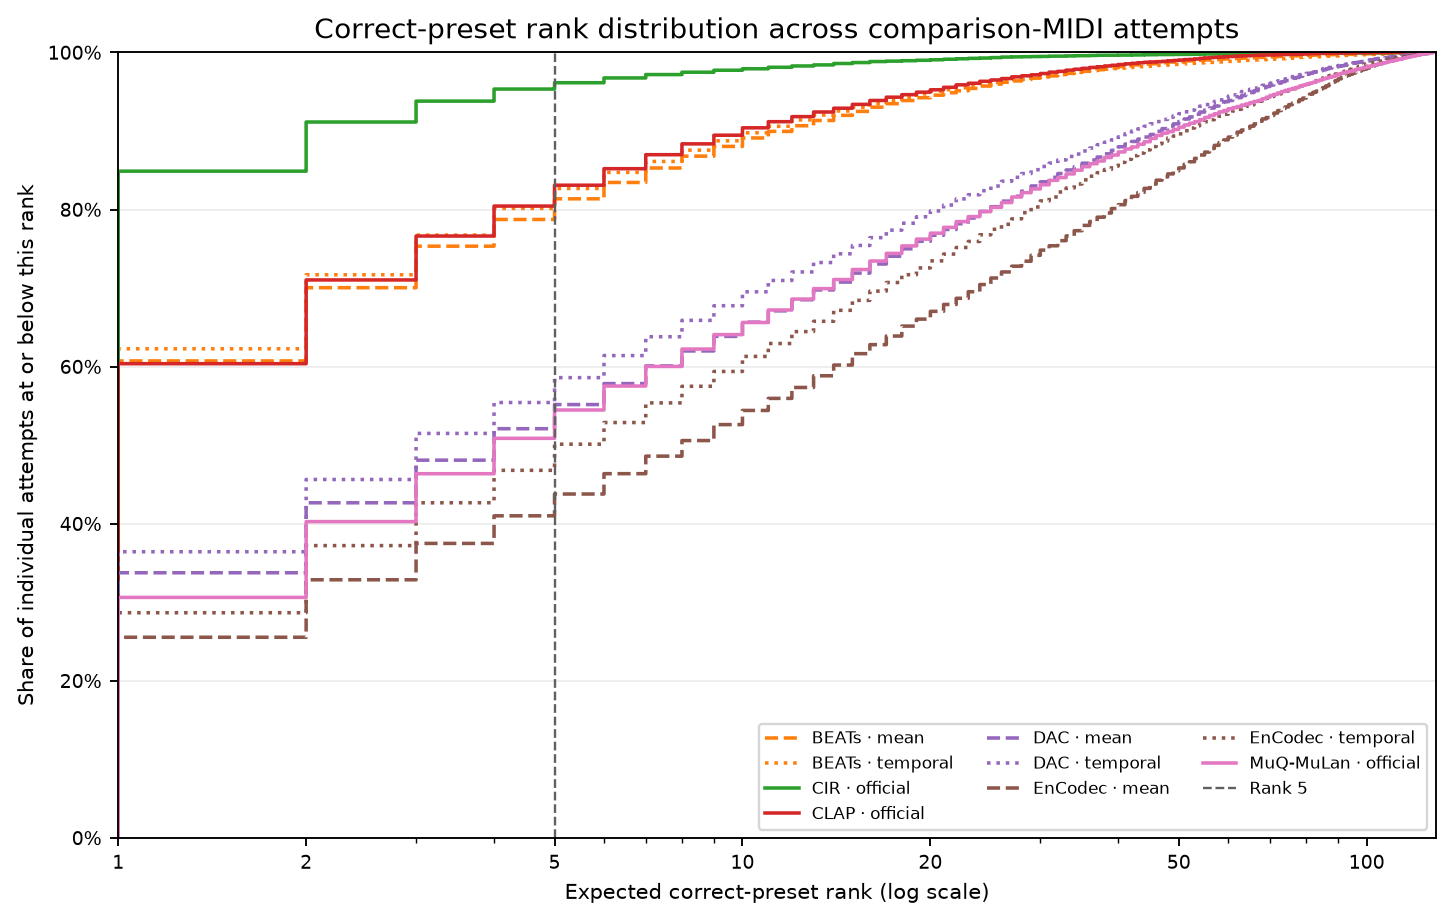
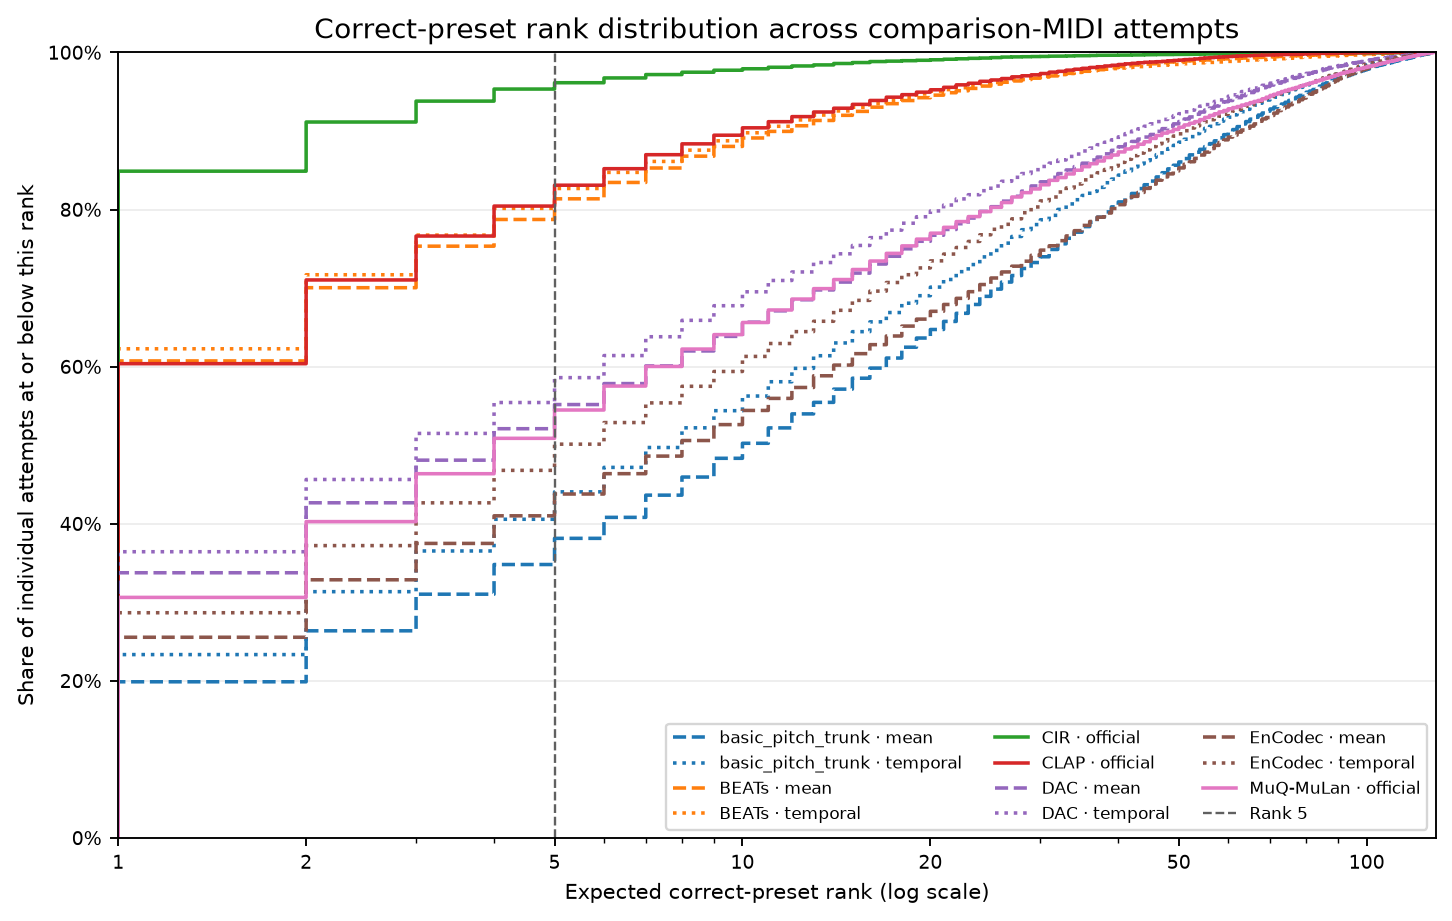
Extend Issue 155 results with Basic Pitch

diff --git a/research/modelling/frozen_encoder_retrieval/frozen_retrieval/reporting.py b/research/modelling/frozen_encoder_retrieval/frozen_retrieval/reporting.py
@@ -546,8 +546,18 @@ def _issue155_followup_lines(results: dict, shortlist: dict | None) -> list[str]
     gain = results.get("gain_sensitivity", {})
     if gain.get("arms"):
         sample = gain.get("sample", {})
-        encoder_count = results.get("input_dataset", {}).get("encoder_families", len(MODEL_REGISTRY))
-        lines.extend(["", f"**C — Gain-reduced warning sample:** a deterministic, stratified sample of {sample.get('size', 0)} WAVs was drawn from {results.get('gain_warning_sample_selection', {}).get('accepted_amplitude_warning_wavs', 0):,} accepted amplitude-warning renders. Copies were reduced linearly to a 0.95 peak and all {encoder_count} encoder families re-embedded only those copies; original cached features supplied the unchanged queries/candidates. This is a sensitivity sample, not a corpus-wide accuracy estimate.", "",
+        extraction = gain.get("encoder_extraction", {})
+        new_families = [name for name, record in extraction.items() if record.get("newly_extracted_features", 0)]
+        reused_families = [name for name, record in extraction.items() if record.get("reused_features", 0)]
+        if new_families and reused_families:
+            extraction_note = (f"New adjusted features were extracted only for {', '.join(MODEL_REGISTRY[name]['name'] for name in new_families)}; "
+                               f"existing adjusted-feature caches were reused for the other {len(reused_families)} families.")
+        elif new_families:
+            extraction_note = "Adjusted features were extracted only for " + ", ".join(
+                MODEL_REGISTRY[name]["name"] for name in new_families) + "."
+        else:
+            extraction_note = "Existing adjusted-feature caches were reused; no encoder inference was repeated."
+        lines.extend(["", f"**C — Gain-reduced warning sample:** a deterministic, stratified sample of {sample.get('size', 0)} WAVs was drawn from {results.get('gain_warning_sample_selection', {}).get('accepted_amplitude_warning_wavs', 0):,} accepted amplitude-warning renders. Copies were reduced linearly to a 0.95 peak. {extraction_note} Original cached features supplied the unchanged queries/candidates. This is a sensitivity sample, not a corpus-wide accuracy estimate.", "",
             "| Encoder arm | Representation cosine distance (95% crossed CI) | Query R@1 before→after; changed / fixed / newly wrong | Correct gallery candidate R@1 before→after; changed / fixed / newly wrong | Δ target margin ×100 (cosine points; query / gallery) |",
             "|---|---:|---:|---:|---:|"])
         for arm, summary in sorted(gain["arms"].items()):

diff --git a/research/modelling/frozen_encoder_retrieval/tests/test_contracts.py b/research/modelling/frozen_encoder_retrieval/tests/test_contracts.py
@@ -342,6 +342,9 @@ class EpisodeContractTests(unittest.TestCase):
 
 
 class FeatureAndManifestTests(unittest.TestCase):
+    def test_issue155_runner_exposes_basic_pitch_adapter_checkout(self):
+        self.assertIn(str(REPO / "research/modelling/basic_pitch"), sys.path)
+
     def test_issue155_report_quality_collapses_assignment_repeats_by_query(self):
         rows = []
         for state_id, family_id, midi_id, query_quality in (

diff --git a/research/modelling/frozen_encoder_retrieval/run_issue155_validation.py b/research/modelling/frozen_encoder_retrieval/run_issue155_validation.py
@@ -11,7 +11,8 @@ import time
 
 PACKAGE = Path(__file__).resolve().parent
 REPO = PACKAGE.parents[2]
-for directory in (REPO / "research/data_generation", REPO / "research/training", PACKAGE):
+for directory in (REPO / "research/data_generation", REPO / "research/training",
+                  REPO / "research/modelling/basic_pitch", PACKAGE):
     if str(directory) not in sys.path:
         sys.path.insert(0, str(directory))
 

diff --git a/research/modelling/frozen_encoder_retrieval/reports/FROZEN_ENCODER_RETRIEVAL_RESULTS.md b/research/modelling/frozen_encoder_retrieval/reports/FROZEN_ENCODER_RETRIEVAL_RESULTS.md
@@ -52,7 +52,7 @@ Paired crossed-cluster Recall@1 differences from the leading family representati
 | `encodec_24khz:masked_mean` | +57.2 | [+51.2, +63.1]  |
 | `basic_pitch_trunk:temporal_pyramid_8` | +59.5 | [+53.8, +65.3]  |
 
-Basic Pitch's strongest pooling arm reached 21.9% R@1 [16.6%, 27.3%] and placed first on 0 of 50 MIDI performances. The paired CIR-minus-Basic-Pitch gap was +59.5 percentage points [+53.8, +65.3]. These retrieval results do not support prioritizing this transcription-trained trunk for a later timbre-reconstruction screen.
+Basic Pitch's strongest pooling arm was `basic_pitch_trunk:temporal_pyramid_8` at 21.9% R@1 (6,450 queries; 50 MIDI performances); it placed first on 0/50 individual performances. The paired CIR-minus-Basic-Pitch gap was +59.5 pp [+53.8, +65.3] across preset-family and MIDI-performance clusters. These retrieval results do not support prioritizing this transcription-trained trunk for a later timbre-reconstruction screen.
 
 The table gives the headline retrieval measures on the shared candidate gallery. R@1 uncertainty is crossed over preset family and MIDI performance (2,000 bootstrap replicates); the heading gives the episode and independent-performance denominators. Hard-negative rates are descriptive proportions with query denominators. Query-audio quality and correct-match gallery quality are broken out below. For the full candidate gallery, the report gives the count and fraction of warned renders rather than labeling all candidates with one bucket. These are descriptive associations: warning status can covary with preset acoustics.
 
@@ -83,7 +83,7 @@ The 81.4% headline is the primary common-gallery assignment. Issue #155 reuses t
 
 ### Plain-English readout
 
-In the separate test of three comparison-MIDI assignments, CIR single-timbre AST retrieved the correct preset at rank one for 84.9% of queries, followed by BEATs iter3+ AS2M at 62.3%. The paired CIR–BEATs gap was +22.6 percentage points [+19.4, +25.8]. It ranked first for 50 of 50 MIDI performances (100.0% top-rank probability). Across individual attempts in the three comparison-MIDI rounds, CIR's median expected rank was 1.0, with 3.9% of attempts at expected rank above 5; Meta EnCodec 24 kHz masked_mean had the largest far-failure share (56.2%). Only 1/129 CIR presets fell below 50% R@1 across the 50 excerpts, compared with 111/129 for Meta EnCodec 24 kHz masked_mean. In the 100-WAV gain-normalization sample, the largest query-ranking drop was Meta EnCodec 24 kHz temporal pyramid (-23.0 points; paired 95% interval [-40.5, -8.5]); this small, warning-enriched sample does not estimate corpus-wide accuracy. The automated screen prepared 9 preset candidates with before/after/repeat listening examples; its consistency screen labels 6 strong, 2 borderline, 1 weak or inconclusive; weak/inconclusive examples: candidate_03 (2/4 contexts); the definitive controlled diagnostic is waiting for the user's review and selection.
+In the separate test of three comparison-MIDI assignments, CIR single-timbre AST retrieved the correct preset at rank one for 84.9% of queries, followed by BEATs iter3+ AS2M at 62.3%. The paired CIR–BEATs gap was +22.6 percentage points [+19.4, +25.8]. It ranked first for 50 of 50 MIDI performances (100.0% top-rank probability). Across individual attempts in the three comparison-MIDI rounds, CIR's median expected rank was 1.0, with 3.9% of attempts at expected rank above 5; Spotify Basic Pitch contour trunk masked_mean had the largest far-failure share (61.9%). Only 1/129 CIR presets fell below 50% R@1 across the 50 excerpts, compared with 117/129 for Spotify Basic Pitch contour trunk masked_mean. In the 100-WAV gain-normalization sample, the largest query-ranking drop was Meta EnCodec 24 kHz temporal pyramid (-23.0 points; paired 95% interval [-40.5, -8.5]); this small, warning-enriched sample does not estimate corpus-wide accuracy. The automated screen prepared 9 preset candidates with before/after/repeat listening examples; its consistency screen labels 6 strong, 2 borderline, 1 weak or inconclusive; weak/inconclusive examples: candidate_03 (2/4 contexts); the definitive controlled diagnostic is waiting for the user's review and selection.
 
 ### Visual summaries
 
@@ -119,14 +119,14 @@ Mean change and independent-seed repeat distances with four-context min–max ra
 
 ## Issue #155 diagnostic results
 
-The primary 50-performance comparison above includes Basic Pitch. The three-offset, rank-failure, and gain-normalization follow-up below is the earlier six-family run; it does not report Basic Pitch sensitivity on those supplementary tests.
-
 ### Comparison-MIDI assignments
 
 The original four-MIDI result is preserved as the baseline. We also reassigned the common comparison MIDI three times (deterministic offsets 1, 7 and 19) using all 50 existing excerpts. Each search still ranks the same 129 preset candidates, and the query and gallery play different MIDI excerpts. The 6,450 query inputs repeat across assignments. R@1, R@5 and MRR averages combine each query's three assignments; rank-distribution metrics below use all three attempts and keep them together in the crossed bootstrap.
 
 | Encoder arm | Offset 1 R@1 [crossed 95% CI] / R@5 / MRR | Offset 7 R@1 [crossed 95% CI] / R@5 / MRR | Offset 19 R@1 [crossed 95% CI] / R@5 / MRR | Three-assignment query average |
 |---|---:|---:|---:|---:|
+| `basic_pitch_trunk:masked_mean` | 20.3% [15.1%, 26.2%] / 38.4% / 30.0% | 19.8% [14.8%, 25.2%] / 37.7% / 29.6% | 19.6% [14.2%, 25.4%] / 38.3% / 29.6% | 19.9% [15.9%, 24.1%] / 38.1% / 29.8% |
+| `basic_pitch_trunk:temporal_pyramid_8` | 23.2% [17.9%, 29.2%] / 44.4% / 34.1% | 23.1% [17.9%, 28.9%] / 44.0% / 34.0% | 23.7% [18.0%, 29.9%] / 43.8% / 34.3% | 23.3% [19.1%, 27.9%] / 44.1% / 34.1% |
 | `beats_iter3_plus:masked_mean` | 60.2% [52.8%, 67.4%] / 81.4% / 69.8% | 61.8% [54.4%, 68.8%] / 81.7% / 70.9% | 60.2% [52.5%, 68.0%] / 81.1% / 69.7% | 60.7% [55.6%, 66.1%] / 81.4% / 70.1% |
 | `beats_iter3_plus:temporal_pyramid_8` | 62.7% [55.8%, 69.8%] / 83.2% / 71.9% | 63.0% [55.9%, 70.0%] / 82.6% / 72.0% | 61.0% [53.6%, 68.6%] / 82.3% / 70.6% | 62.3% [57.4%, 67.1%] / 82.7% / 71.5% |
 | `cir_ast:official_clip` | 84.9% [80.2%, 89.0%] / 96.3% / 89.8% | 85.6% [81.0%, 89.6%] / 96.3% / 90.2% | 84.2% [79.2%, 88.6%] / 95.9% / 89.4% | 84.9% [81.4%, 88.1%] / 96.1% / 89.8% |
@@ -141,6 +141,8 @@ Each assignment round used 50 gallery MIDI excerpts and held query/preset pairs 
 
 | Arm | Paired ΔR@1, three-round average minus four-MIDI baseline (95% crossed CI) |
 |---|---:|
+| `basic_pitch_trunk:masked_mean` | +0.4 pp [-4.1, +4.9] |
+| `basic_pitch_trunk:temporal_pyramid_8` | +1.5 pp [-2.5, +5.0] |
 | `beats_iter3_plus:masked_mean` | +1.5 pp [-7.1, +9.4] |
 | `beats_iter3_plus:temporal_pyramid_8` | +0.1 pp [-7.6, +7.8] |
 | `cir_ast:official_clip` | +3.5 pp [-1.5, +8.5] |
@@ -158,6 +160,7 @@ Performance-level rank stability (50 MIDI identities; the aggregate-best pooling
 
 | Encoder family | Arm | Offset 1: R@1; first-place MIDIs; top-rank probability | Offset 7: R@1; first-place MIDIs; top-rank probability | Offset 19: R@1; first-place MIDIs; top-rank probability | Query-averaged: R@1; first-place MIDIs; top-rank probability |
 |---|---|---:|---:|---:|---:|
+| `basic_pitch_trunk` | `basic_pitch_trunk:temporal_pyramid_8` | 23.2%; 0/50; 0.0% | 23.1%; 0/50; 0.0% | 23.7%; 0/50; 0.0% | 23.3%; 0/50; 0.0% |
 | `beats_iter3_plus` | `beats_iter3_plus:temporal_pyramid_8` | 62.7%; 3/50; 0.0% | 63.0%; 0/50; 0.0% | 61.0%; 2/50; 0.0% | 62.3%; 0/50; 0.0% |
 | `cir_ast` | `cir_ast:official_clip` | 84.9%; 48/50; 100.0% | 85.6%; 50/50; 100.0% | 84.2%; 49/50; 100.0% | 84.9%; 50/50; 100.0% |
 | `clap_music` | `clap_music:official_clip` | 59.9%; 0/50; 0.0% | 61.4%; 1/50; 0.0% | 59.8%; 1/50; 0.0% | 60.4%; 0/50; 0.0% |
@@ -173,6 +176,8 @@ A correct preset at rank 1 is a success; rank 4 is a near miss; rank 20 is a far
 
 | Encoder arm | Median expected rank per attempt [95% crossed CI] | 90th-percentile expected rank per attempt [95% crossed CI] | Near-miss attempts (expected rank >1 to 5) | Far-failure attempts (expected rank >5) |
 |---|---:|---:|---:|---:|
+| `basic_pitch_trunk:masked_mean` | 10.0 [8.0, 13.0] | 61.0 [53.0, 69.0] | 18.3% [16.4%, 20.2%] | 61.9% [56.9%, 66.9%] |
+| `basic_pitch_trunk:temporal_pyramid_8` | 8.0 [6.0, 10.0] | 55.0 [47.0, 62.0] | 20.7% [18.5%, 23.0%] | 55.9% [50.5%, 61.3%] |
 | `beats_iter3_plus:masked_mean` | 1.0 [1.0, 1.0] | 12.0 [9.0, 15.0] | 20.6% [18.3%, 23.0%] | 18.6% [15.1%, 22.3%] |
 | `beats_iter3_plus:temporal_pyramid_8` | 1.0 [1.0, 1.0] | 11.0 [8.0, 14.0] | 20.4% [18.0%, 22.7%] | 17.3% [14.1%, 20.9%] |
 | `cir_ast:official_clip` | 1.0 [1.0, 1.0] | 2.0 [2.0, 3.0] | 11.3% [9.1%, 13.5%] | 3.9% [2.6%, 5.4%] |
@@ -187,6 +192,8 @@ Per-preset accuracy averages Recall@1 across three assignment attempts within ea
 
 | Encoder arm | Median Per-preset R@1 [95% crossed CI] | 10th-percentile Per-preset R@1 [95% crossed CI] | Presets below 50% R@1 (count / total; share CI) |
 |---|---:|---:|---:|
+| `basic_pitch_trunk:masked_mean` | 12.0% [8.0%, 17.3%] | 3.3% [1.3%, 6.0%] | 117/129 (90.7% [86.0%, 96.1%]) |
+| `basic_pitch_trunk:temporal_pyramid_8` | 16.0% [10.7%, 20.7%] | 3.3% [1.3%, 6.0%] | 111/129 (86.0% [79.1%, 92.2%]) |
 | `beats_iter3_plus:masked_mean` | 60.0% [53.3%, 66.0%] | 36.5% [30.4%, 43.7%] | 41/129 (31.8% [19.4%, 44.2%]) |
 | `beats_iter3_plus:temporal_pyramid_8` | 62.0% [55.3%, 68.7%] | 36.9% [31.2%, 44.7%] | 40/129 (31.0% [18.6%, 41.1%]) |
 | `cir_ast:official_clip` | 87.3% [82.7%, 90.7%] | 68.7% [62.0%, 74.4%] | 1/129 (0.8% [0.0%, 3.9%]) |
@@ -202,6 +209,8 @@ Render-quality results for the expanded comparison-MIDI assignments (each encode
 
 | Encoder arm | Query WAV R@1: clean / warning | Correct-match gallery WAV R@1: clean / warning (overlap allowed) | Mean warned candidates / fraction of 129 (fraction CI) |
 |---|---|---|---:|
+| `basic_pitch_trunk:masked_mean` | clean 15.1% [11.3%, 19.6%] (n=3,778 unique pairs; m=11,334 assignment observations) / warning 26.6% [20.3%, 33.3%] (n=2,672 unique pairs; m=8,016 assignment observations) | clean 15.6% [11.6%, 20.2%] (n=4,390 unique pairs; m=11,334 assignment observations) / warning 23.1% [17.2%, 29.3%] (n=3,356 unique pairs; m=8,016 assignment observations) | 53.4 / 0.414 [0.398, 0.433] |
+| `basic_pitch_trunk:temporal_pyramid_8` | clean 17.9% [13.7%, 22.8%] (n=3,778 unique pairs; m=11,334 assignment observations) / warning 31.0% [24.2%, 38.7%] (n=2,672 unique pairs; m=8,016 assignment observations) | clean 18.6% [14.2%, 23.5%] (n=4,390 unique pairs; m=11,334 assignment observations) / warning 27.4% [20.8%, 34.0%] (n=3,356 unique pairs; m=8,016 assignment observations) | 53.4 / 0.414 [0.398, 0.433] |
 | `beats_iter3_plus:masked_mean` | clean 55.2% [49.3%, 60.8%] (n=3,778 unique pairs; m=11,334 assignment observations) / warning 68.6% [62.6%, 74.2%] (n=2,672 unique pairs; m=8,016 assignment observations) | clean 55.6% [49.7%, 61.0%] (n=4,390 unique pairs; m=11,334 assignment observations) / warning 65.9% [59.9%, 71.8%] (n=3,356 unique pairs; m=8,016 assignment observations) | 53.4 / 0.414 [0.398, 0.433] |
 | `beats_iter3_plus:temporal_pyramid_8` | clean 56.6% [51.0%, 62.0%] (n=3,778 unique pairs; m=11,334 assignment observations) / warning 70.2% [64.2%, 75.8%] (n=2,672 unique pairs; m=8,016 assignment observations) | clean 57.0% [51.4%, 62.1%] (n=4,390 unique pairs; m=11,334 assignment observations) / warning 66.9% [60.4%, 72.7%] (n=3,356 unique pairs; m=8,016 assignment observations) | 53.4 / 0.414 [0.398, 0.433] |
 | `cir_ast:official_clip` | clean 82.9% [78.7%, 86.6%] (n=3,778 unique pairs; m=11,334 assignment observations) / warning 87.7% [84.1%, 90.8%] (n=2,672 unique pairs; m=8,016 assignment observations) | clean 82.8% [78.5%, 86.4%] (n=4,390 unique pairs; m=11,334 assignment observations) / warning 86.2% [82.5%, 89.3%] (n=3,356 unique pairs; m=8,016 assignment observations) | 53.4 / 0.414 [0.398, 0.433] |
@@ -215,11 +224,13 @@ A long tail or high float peak is not an automatic failure. These descriptive st
 
 ### Audio quality checks
 
-**A — Original audio:** the 7-family benchmark above uses 6,480 accepted cached clips, with the original four-MIDI results retained. The supplementary analyses below retain their original six-family coverage until the Basic Pitch extension completes.
+**A — Original audio:** the expanded retrieval comparison above uses 7 encoder families and 6,480 accepted cached clips, with the original four-MIDI results retained.
 **B — Clean queries:** we re-summarized the existing cached-feature episode scores for queries whose WAVs had no QA warning. No model inference was repeated for this slice.
 
 | Encoder arm | Clean-query R@1 [crossed 95% CI] / R@5 / MRR | Queries |
 |---|---:|---:|
+| `basic_pitch_trunk:masked_mean` | 14.4% [9.4%, 20.0%] / 33.1% / 24.7% | 3,778 |
+| `basic_pitch_trunk:temporal_pyramid_8` | 16.1% [11.2%, 21.9%] / 38.2% / 27.8% | 3,778 |
 | `beats_iter3_plus:masked_mean` | 54.1% [43.6%, 64.0%] / 75.1% / 63.9% | 3,778 |
 | `beats_iter3_plus:temporal_pyramid_8` | 57.1% [47.2%, 66.6%] / 77.8% / 66.7% | 3,778 |
 | `cir_ast:official_clip` | 79.4% [72.2%, 85.8%] / 92.9% / 85.5% | 3,778 |
@@ -235,6 +246,8 @@ For a stricter check, we recomputed ranks after removing every warned candidate 
 
 | Encoder arm | Clean-gallery R@1 [crossed 95% CI] / R@5 / MRR | Clean queries |
 |---|---:|---:|
+| `basic_pitch_trunk:masked_mean` | 18.4% [14.0%, 23.4%] / 39.8% / 29.8% | 3,690 |
+| `basic_pitch_trunk:temporal_pyramid_8` | 21.6% [16.6%, 27.1%] / 44.8% / 33.5% | 3,690 |
 | `beats_iter3_plus:masked_mean` | 60.6% [55.1%, 65.9%] / 82.9% / 70.4% | 3,690 |
 | `beats_iter3_plus:temporal_pyramid_8` | 61.6% [56.1%, 66.6%] / 84.0% / 71.5% | 3,690 |
 | `cir_ast:official_clip` | 86.5% [82.8%, 89.8%] / 97.0% / 91.1% | 3,690 |
@@ -247,10 +260,12 @@ For a stricter check, we recomputed ranks after removing every warned candidate 
 Paired clean-gallery CIR minus BEATs temporal-pyramid ΔR@1: +24.8 pp [+20.8, +29.0].
 Clean/warning status is descriptive and may track preset acoustics; neither slice establishes a causal render-quality effect.
 
-**C — Gain-reduced warning sample:** a deterministic, stratified sample of 100 WAVs was drawn from 1,531 accepted amplitude-warning renders. Copies were reduced linearly to a 0.95 peak and all 6 encoder families re-embedded only those copies; original cached features supplied the unchanged queries/candidates. This is a sensitivity sample, not a corpus-wide accuracy estimate.
+**C — Gain-reduced warning sample:** a deterministic, stratified sample of 100 WAVs was drawn from 1,531 accepted amplitude-warning renders. Copies were reduced linearly to a 0.95 peak. New adjusted features were extracted only for Spotify Basic Pitch contour trunk; existing adjusted-feature caches were reused for the other 6 families. Original cached features supplied the unchanged queries/candidates. This is a sensitivity sample, not a corpus-wide accuracy estimate.
 
 | Encoder arm | Representation cosine distance (95% crossed CI) | Query R@1 before→after; changed / fixed / newly wrong | Correct gallery candidate R@1 before→after; changed / fixed / newly wrong | Δ target margin ×100 (cosine points; query / gallery) |
 |---|---:|---:|---:|---:|
+| `basic_pitch_trunk:masked_mean` | 0.0003 [0.0002, 0.0005] | 34.0%→32.0% (Δ -2.0 pp [-10.5, +6.1]); 13 / 2 / 4 | 28.0%→30.0% (Δ +2.0 pp [+0.0, +7.8]); 2 / 2 / 0 | -0.06 [-0.23, +0.09] / -0.03 [-0.19, +0.10] |
+| `basic_pitch_trunk:temporal_pyramid_8` | 0.0005 [0.0003, 0.0007] | 36.0%→34.0% (Δ -2.0 pp [-8.1, +0.0]); 7 / 0 / 2 | 33.0%→35.0% (Δ +2.0 pp [+0.0, +7.7]); 2 / 2 / 0 | -0.12 [-0.33, +0.06] / -0.05 [-0.19, +0.09] |
 | `beats_iter3_plus:masked_mean` | 0.0034 [0.0019, 0.0051] | 68.0%→67.0% (Δ -1.0 pp [-8.2, +4.8]); 5 / 1 / 2 | 69.0%→69.0% (Δ +0.0 pp [+0.0, +0.0]); 0 / 0 / 0 | -0.29 [-0.64, +0.05] / -0.22 [-0.47, +0.02] |
 | `beats_iter3_plus:temporal_pyramid_8` | 0.0030 [0.0017, 0.0045] | 71.0%→69.0% (Δ -2.0 pp [-8.2, +0.0]); 4 / 0 / 2 | 69.0%→67.0% (Δ -2.0 pp [-8.5, +0.0]); 2 / 0 / 2 | -0.27 [-0.53, -0.05] / -0.12 [-0.31, +0.06] |
 | `cir_ast:official_clip` | 0.0152 [0.0098, 0.0208] | 90.0%→87.0% (Δ -3.0 pp [-9.8, +0.0]); 4 / 0 / 3 | 87.0%→87.0% (Δ +0.0 pp [+0.0, +0.0]); 0 / 0 / 0 | -1.62 [-2.82, -0.61] / -1.34 [-2.14, -0.61] |
